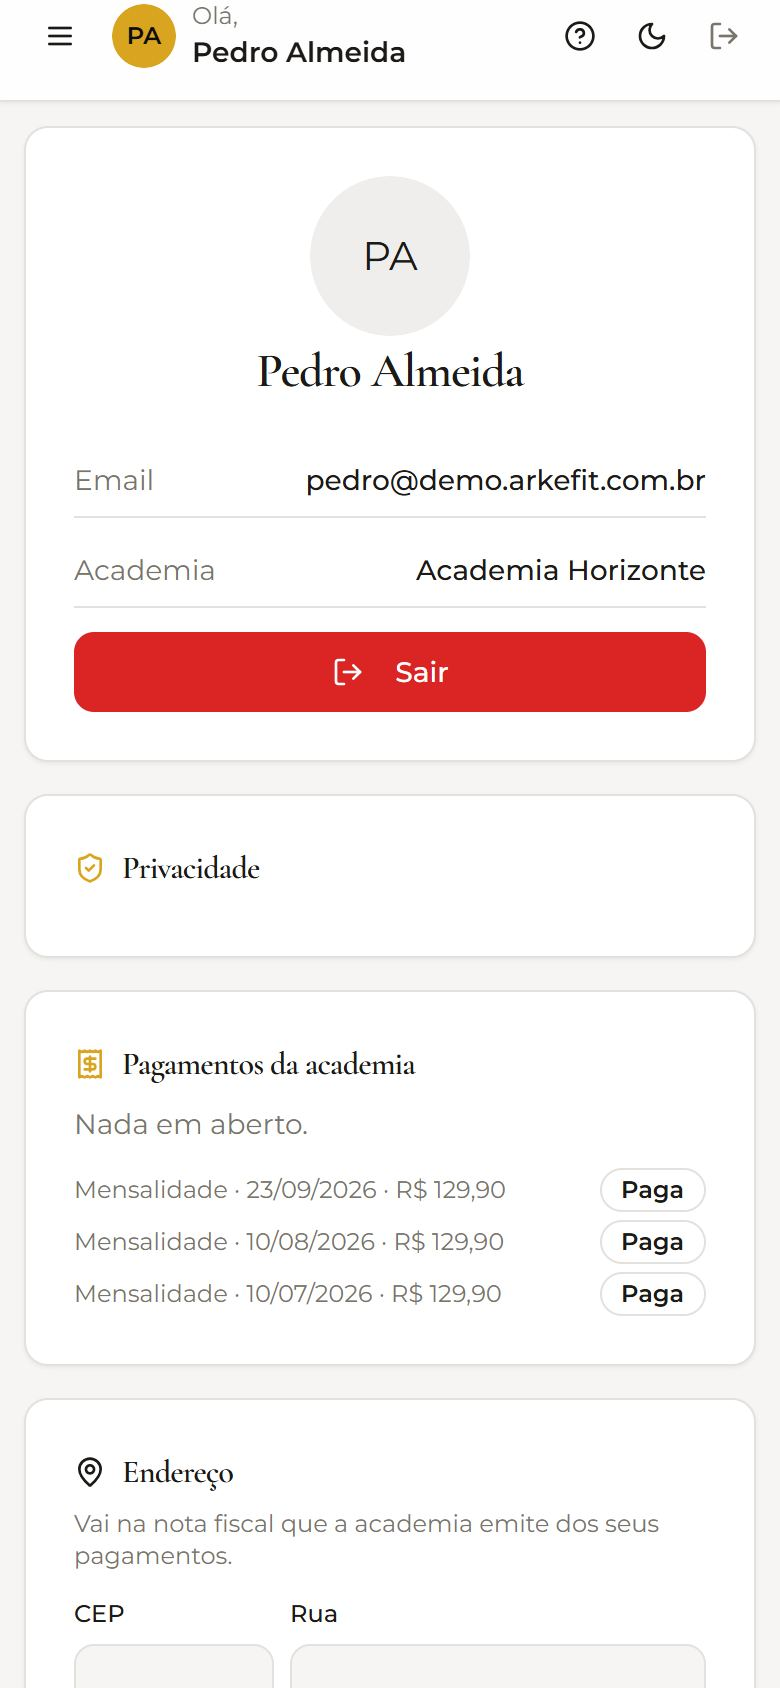
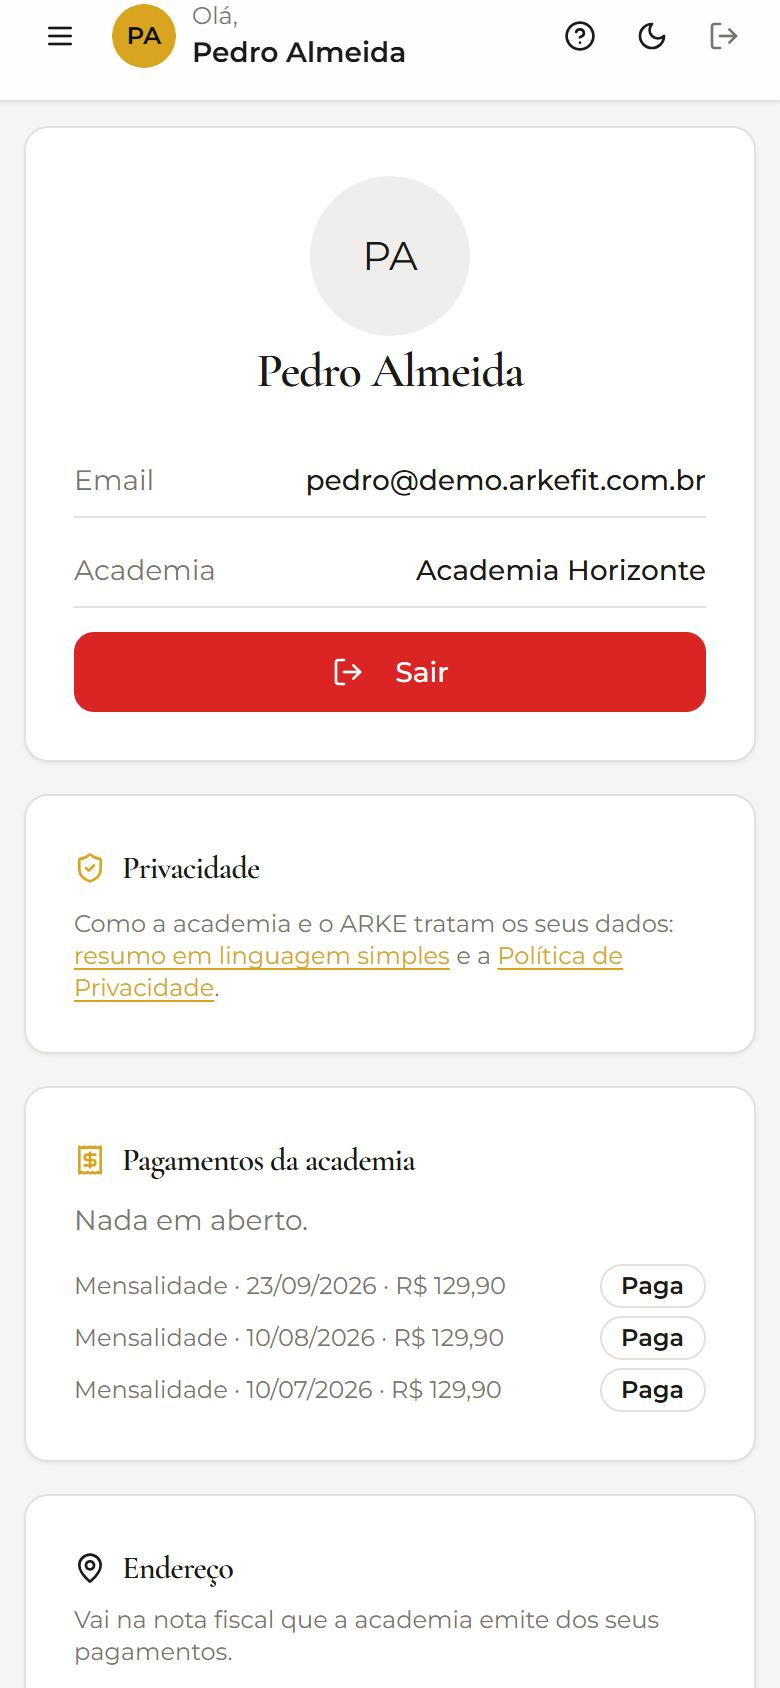
Captcha dos formulários públicos: token inválido é recusado (#250)
O siteverify do Turnstile responde 400 para token inválido, e o código
tratava qualquer resposta sem 200 como "Cloudflare indisponível" e
liberava: um token inventado passava na matrícula pública, no primeiro
acesso e no contato do site. A verificação passa a morar em
_shared/captcha.ts e decide pelo corpo da resposta; só rede, 5xx,
internal-error ou chave nossa inválida contam como indisponível.
captcha.test.ts trava a interpretação e o módulo único.

Achado junto: o TURNSTILE_SECRET_KEY do projeto guarda a site key, e
por isso o captcha não está valendo. Falta gravar a secret key real.

Também: imagem do Perfil do aluno com o cartão de Privacidade novo.

diff --git a/supabase/functions/_shared/captcha.ts b/supabase/functions/_shared/captcha.ts
@@ -1,0 +1,60 @@
+/**
+ * Verificação do Cloudflare Turnstile para os endpoints públicos (matrícula
+ * pública, primeiro acesso, contato da página de vendas).
+ *
+ * **Falha aberta só quando o Cloudflare de fato não respondeu.** A versão
+ * anterior tratava qualquer resposta sem HTTP 200 como "indisponível" e
+ * liberava — mas o siteverify responde **400** para token inválido, com
+ * `success: false` e `invalid-input-response`. Resultado: qualquer token
+ * inventado passava pelo captcha nos três endpoints (achado em 25/09/2026).
+ * Agora quem decide é o corpo da resposta: token recusado é recusado, com
+ * qualquer status; só erro de rede, 5xx, `internal-error` ou a nossa própria
+ * chave inválida contam como indisponível — a última porque é configuração
+ * nossa, e travar todo cadastro por ela trocaria um risco pequeno por uma
+ * falha certa.
+ */
+
+export type ResultadoCaptcha = "ok" | "recusado" | "indisponivel";
+
+const PROBLEMA_NOSSO = ["missing-input-secret", "invalid-input-secret", "internal-error"];
+
+/** Decide pelo que o siteverify respondeu. Sem Deno, para o teste do app. */
+export function interpretarSiteverify(status: number, corpo: unknown): ResultadoCaptcha {
+  const dados = (corpo ?? {}) as { success?: unknown; "error-codes"?: unknown };
+  if (dados.success === true) return "ok";
+  const codigos = Array.isArray(dados["error-codes"]) ? (dados["error-codes"] as string[]) : [];
+  if (status >= 500 || codigos.some((c) => PROBLEMA_NOSSO.includes(c))) return "indisponivel";
+  if (dados.success === false) return "recusado";
+  // Corpo sem o formato do siteverify: não dá para afirmar que recusou.
+  return status >= 400 && status < 500 ? "recusado" : "indisponivel";
+}
+
+export async function verificarCaptcha(token: string | undefined | null, ip: string | null, segredo: string): Promise<ResultadoCaptcha> {
+  if (!token) return "recusado";
+  const corpo = new FormData();
+  corpo.append("secret", segredo);
+  corpo.append("response", token);
+  if (ip) corpo.append("remoteip", ip);
+  let resp: Response;
+  try {
+    resp = await fetch("https://challenges.cloudflare.com/turnstile/v0/siteverify", {
+      method: "POST",
+      body: corpo,
+      signal: AbortSignal.timeout(5000),
+    });
+  } catch {
+    return "indisponivel";
+  }
+  let dados: unknown = null;
+  try {
+    dados = await resp.json();
+  } catch {
+    // corpo que não é JSON
+  }
+  const resultado = interpretarSiteverify(resp.status, dados);
+  if (resultado === "indisponivel") {
+    const codigos = (dados as { "error-codes"?: unknown } | null)?.["error-codes"];
+    console.error("captcha: siteverify indisponível ou chave inválida", resp.status, Array.isArray(codigos) ? codigos.join(",") : "");
+  }
+  return resultado;
+}

diff --git a/src/lib/captcha.test.ts b/src/lib/captcha.test.ts
@@ -1,0 +1,41 @@
+import { describe, it, expect } from "vitest";
+import { readdirSync, readFileSync, statSync } from "node:fs";
+import { join } from "node:path";
+import { interpretarSiteverify } from "../../supabase/functions/_shared/captcha";
+
+describe("resposta do Turnstile", () => {
+  it("aprovado só com success: true", () => {
+    expect(interpretarSiteverify(200, { success: true })).toBe("ok");
+  });
+
+  it("token inválido é recusado, mesmo com HTTP 400", () => {
+    // Era aqui que qualquer token inventado passava: o 400 virava "indisponível".
+    expect(interpretarSiteverify(400, { success: false, "error-codes": ["invalid-input-response"] })).toBe("recusado");
+    expect(interpretarSiteverify(200, { success: false, "error-codes": ["timeout-or-duplicate"] })).toBe("recusado");
+    expect(interpretarSiteverify(400, null)).toBe("recusado");
+  });
+
+  it("Cloudflare fora do ar ou a nossa chave errada contam como indisponível", () => {
+    expect(interpretarSiteverify(503, null)).toBe("indisponivel");
+    expect(interpretarSiteverify(200, { success: false, "error-codes": ["internal-error"] })).toBe("indisponivel");
+    expect(interpretarSiteverify(400, { success: false, "error-codes": ["invalid-input-secret"] })).toBe("indisponivel");
+  });
+});
+
+describe("um lugar só para o captcha", () => {
+  it("nenhuma edge function chama o siteverify por conta própria", () => {
+    const raiz = join(__dirname, "..", "..", "supabase", "functions");
+    const culpados: string[] = [];
+    const varrer = (dir: string) => {
+      for (const nome of readdirSync(dir)) {
+        const caminho = join(dir, nome);
+        if (statSync(caminho).isDirectory()) varrer(caminho);
+        else if (nome.endsWith(".ts") && nome !== "captcha.ts" && readFileSync(caminho, "utf8").includes("turnstile/v0/siteverify")) {
+          culpados.push(caminho);
+        }
+      }
+    };
+    varrer(raiz);
+    expect(culpados, "use verificarCaptcha de _shared/captcha.ts").toEqual([]);
+  });
+});

diff --git a/supabase/functions/matricula-publica/index.ts b/supabase/functions/matricula-publica/index.ts
@@ -1,4 +1,5 @@
 import { createClient } from "npm:@supabase/supabase-js@2";
+import { verificarCaptcha } from "../_shared/captcha.ts";
 
 const corsHeaders = {
   "Access-Control-Allow-Origin": "*",
@@ -139,27 +140,7 @@ async function hashDoIp(ip: string, pimenta: string): Promise<string> {
 // Falha aberta quando a Cloudflare não responde, pelo mesmo motivo do limitador:
 // indisponibilidade de terceiro não pode fechar a matrícula no dia em que a
 // academia divulga o link. Token ausente ou recusado, esse sim, barra.
-type ResultadoCaptcha = "ok" | "recusado" | "indisponivel";
-
-async function verificarCaptcha(token: string | undefined, ip: string | null, segredo: string): Promise<ResultadoCaptcha> {
-  if (!token) return "recusado";
-  const corpo = new FormData();
-  corpo.append("secret", segredo);
-  corpo.append("response", token);
-  if (ip) corpo.append("remoteip", ip);
-  try {
-    const resp = await fetch("https://challenges.cloudflare.com/turnstile/v0/siteverify", {
-      method: "POST",
-      body: corpo,
-      signal: AbortSignal.timeout(5000),
-    });
-    if (!resp.ok) return "indisponivel";
-    const resultado = (await resp.json()) as { success?: boolean };
-    return resultado.success ? "ok" : "recusado";
-  } catch {
-    return "indisponivel";
-  }
-}
+// A verificação mora em _shared/captcha.ts, igual para os três endpoints públicos.
 
 type MatriculaPayload = {
   slug: string;

diff --git a/supabase/functions/primeiro-acesso/index.ts b/supabase/functions/primeiro-acesso/index.ts
@@ -1,4 +1,5 @@
 import { createClient } from "npm:@supabase/supabase-js@2";
+import { verificarCaptcha } from "../_shared/captcha.ts";
 
 const corsHeaders = {
   "Access-Control-Allow-Origin": "*",
@@ -35,26 +36,6 @@ async function hashDoIp(ip: string, pimenta: string): Promise<string> {
   return Array.from(new Uint8Array(digest))
     .map((b) => b.toString(16).padStart(2, "0"))
     .join("");
-}
-
-// Duplicado de matricula-publica (edge function não importa das outras).
-async function verificarCaptcha(token: string | undefined, ip: string | null, segredo: string): Promise<"ok" | "recusado" | "indisponivel"> {
-  if (!token) return "recusado";
-  const corpo = new FormData();
-  corpo.append("secret", segredo);
-  corpo.append("response", token);
-  if (ip) corpo.append("remoteip", ip);
-  try {
-    const resp = await fetch("https://challenges.cloudflare.com/turnstile/v0/siteverify", {
-      method: "POST",
-      body: corpo,
-      signal: AbortSignal.timeout(5000),
-    });
-    if (!resp.ok) return "indisponivel";
-    return ((await resp.json()) as { success?: boolean }).success ? "ok" : "recusado";
-  } catch {
-    return "indisponivel";
-  }
 }
 
 Deno.serve(async (req: Request) => {

diff --git a/supabase/functions/lead-site/index.ts b/supabase/functions/lead-site/index.ts
@@ -1,4 +1,5 @@
 import { createClient } from "npm:@supabase/supabase-js@2";
+import { verificarCaptcha } from "../_shared/captcha.ts";
 import { emailDoLead, validarLead } from "./validar.ts";
 
 const corsHeaders = {
@@ -30,22 +31,6 @@ async function hashDoIp(ip: string, pimenta: string): Promise<string> {
   return Array.from(new Uint8Array(digest))
     .map((b) => b.toString(16).padStart(2, "0"))
     .join("");
-}
-
-// Duplicado de matricula-publica (edge function não importa das outras).
-async function verificarCaptcha(token: string | undefined, ip: string | null, segredo: string): Promise<"ok" | "recusado" | "indisponivel"> {
-  if (!token) return "recusado";
-  const corpo = new FormData();
-  corpo.append("secret", segredo);
-  corpo.append("response", token);
-  if (ip) corpo.append("remoteip", ip);
-  try {
-    const resp = await fetch("https://challenges.cloudflare.com/turnstile/v0/siteverify", { method: "POST", body: corpo, signal: AbortSignal.timeout(5000) });
-    if (!resp.ok) return "indisponivel";
-    return ((await resp.json()) as { success?: boolean }).success ? "ok" : "recusado";
-  } catch {
-    return "indisponivel";
-  }
 }
 
 Deno.serve(async (req: Request) => {

diff --git a/CLAUDE.md b/CLAUDE.md
@@ -1008,6 +1008,8 @@ A página de vendas (`src/pages/public/Landing.tsx`) mora na **raiz de arkefit.c
 
 **App em app.arkefit.com.br (decisão 8) — preparado, falta o DNS.** O DNS de arkefit.com.br está no Registro.br, fora do alcance daqui. Já feito: o domínio foi acrescentado ao projeto na Vercel, o Auth do Supabase aceita redirecionar para ele, e `SITE_URL` virou secret (ainda www), para a troca ser uma mudança só. Com `VITE_APP_HOST` definido na Vercel, uma rota do app aberta em arkefit.com.br — QR Code impresso, e-mail de convite — vai para o endereço do app com o caminho e os tokens inteiros (`destinoNoApp`, em `main.tsx`, antes de montar o React); a raiz e os documentos legais ficam no endereço de vendas. Sem a variável, nada muda. **Ordem da troca:** (1) CNAME `app` → `cname.vercel-dns.com` no Registro.br; (2) conferir que `https://app.arkefit.com.br` abre o app; (3) `VITE_APP_HOST=app.arkefit.com.br` na Vercel e novo deploy; (4) secret `SITE_URL=https://app.arkefit.com.br` e `site_url` do Auth para o mesmo endereço; (5) confirmar que o Turnstile aceita o subdomínio (a lista de domínios do widget tem arkefit.com.br).
 
+**O captcha dos formulários públicos nunca esteve valendo no projeto Brasil (achado em 25/09/2026).** Testando o formulário novo, um token inventado passou. Eram dois defeitos juntos: (1) o `TURNSTILE_SECRET_KEY` gravado no Supabase é a **site key** (pública), e não a secret key — o hash do secret bate com a site key —, e o Cloudflare responde `invalid-input-secret`; (2) o código tratava qualquer resposta sem HTTP 200 como "Cloudflare indisponível" e liberava, e o siteverify responde **400** também para token inválido. Com (2) sozinho, qualquer token inventado passaria mesmo com a chave certa. Corrigido o código: a verificação mora em `_shared/captcha.ts`, igual para matrícula pública, primeiro acesso e contato do site, e quem decide é o corpo da resposta — token recusado é recusado com qualquer status; só erro de rede, 5xx, `internal-error` ou chave nossa inválida contam como indisponível (e liberam, pela regra de não travar cadastro por falha de terceiro). `captcha.test.ts` trava as duas coisas: a interpretação e que nenhuma função chama o siteverify por conta própria. **Falta gravar a secret key de verdade** (Cloudflare → Turnstile → widget → Secret Key) no secret `TURNSTILE_SECRET_KEY`; até lá o captcha segue desligado na prática, e o log das funções registra `invalid-input-secret`.
+
 ## Rastreamento de Erro (Sentry): a configuração é a política de privacidade
 
 Sem rastreamento, um erro de JavaScript numa tela deixa o aluno travado e ninguém fica sabendo — o defeito só aparece quando alguém liga para a academia. Com várias academias em produção isso deixa de ser sustentável, então o Sentry entrou em `src/lib/monitoramento.ts`, ligado em três pontos: a subida do app (`main.tsx`), o `ErrorBoundary` (que antes só fazia `console.error`, inútil para quem não tem DevTools aberto) e o `AuthContext`, que carimba os eventos.

diff --git a/docs/DECISOES_PENDENTES.md b/docs/DECISOES_PENDENTES.md
@@ -14,6 +14,7 @@ Só o que continua em aberto. As decisões já tomadas e aplicadas saíram desta
 
 ## Página de vendas e endereço do app (25/09/2026)
 
+- **Secret key do Turnstile** (só o responsável, na Cloudflare): o `TURNSTILE_SECRET_KEY` do Supabase guarda a site key, e por isso o captcha de matrícula pública, primeiro acesso e contato do site não está valendo. Copiar a **Secret Key** do widget (Cloudflare → Turnstile → o widget da ArkeFit) e gravar com `supabase secrets set TURNSTILE_SECRET_KEY=...`. Depois, enviar o formulário da página de vendas uma vez para conferir.
 - **DNS de app.arkefit.com.br** (só o responsável, no Registro.br): criar o registro CNAME `app` apontando para `cname.vercel-dns.com`. Depois disso, a troca do app para o endereço próprio segue a ordem descrita no `CLAUDE.md` (Fase 2), antes de a primeira academia imprimir QR Codes.
 - **Preços na página de vendas.** A página não mostra preços dos planos nem da taxa de implantação; o contato leva à demonstração. Publicar os preços é decisão comercial.
 - **Contato comercial na Política de Privacidade.** O formulário avisa a finalidade na hora; a Política não menciona contatos comerciais pelo site. Recomendação: incluir na próxima revisão, com o prazo de guarda de contato que não virou cliente.
